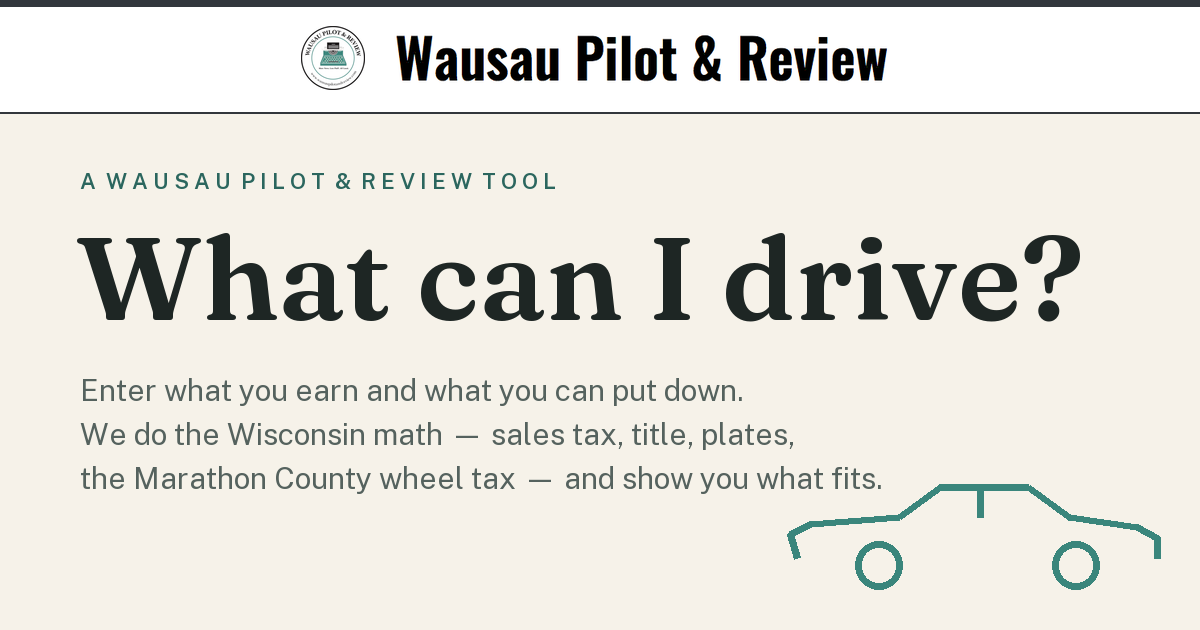
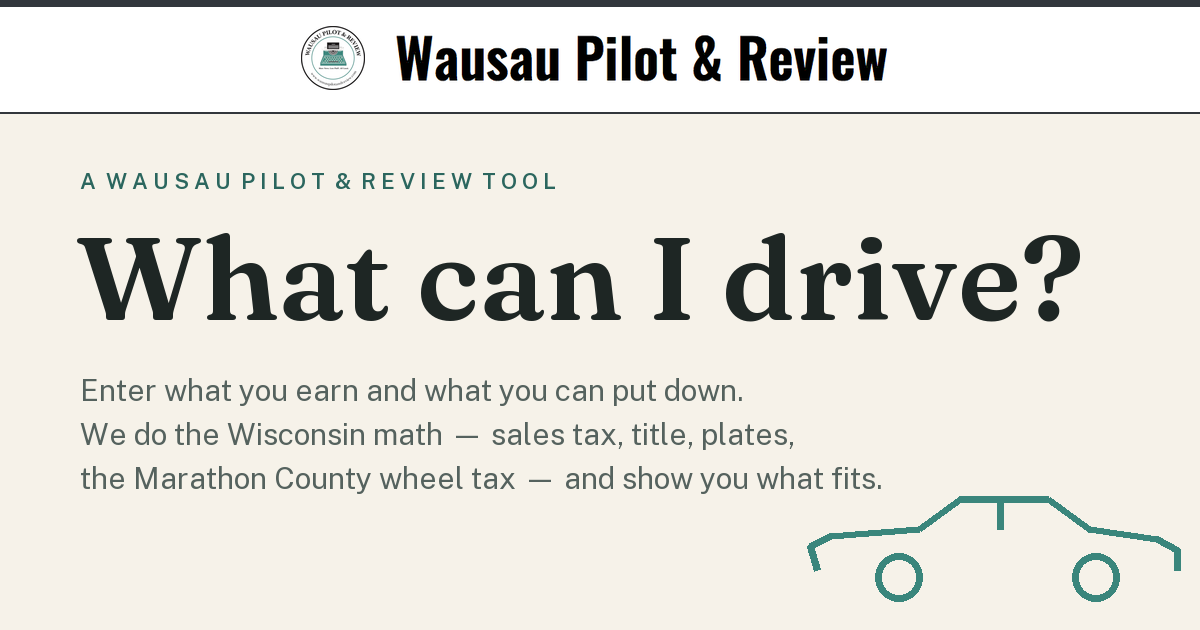
OG card: sedan clear of the lede

Changed region(s): [[0.6475, 0.754, 0.8942, 0.9651], [0.8633, 0.8143, 0.9867, 0.9651]]

diff --git a/scripts/og-card.py b/scripts/og-card.py
@@ -90,7 +90,7 @@ def main() -> None:
         d.text((80, 372 + k * 44), line, font=lede, fill=INK_SOFT)
 
     # Sedan line art, bottom right, in brand teal.
-    sx, sy, sc = 770, 436, 3.4
+    sx, sy, sc = 790, 448, 3.4
     pts = [(sx + x * sc, sy + y * sc) for x, y in SEDAN]
     d.line(pts, fill=TEAL, width=7, joint="curve")
     d.line([(sx + x * sc, sy + y * sc) for x, y in PILLAR], fill=TEAL, width=7)
